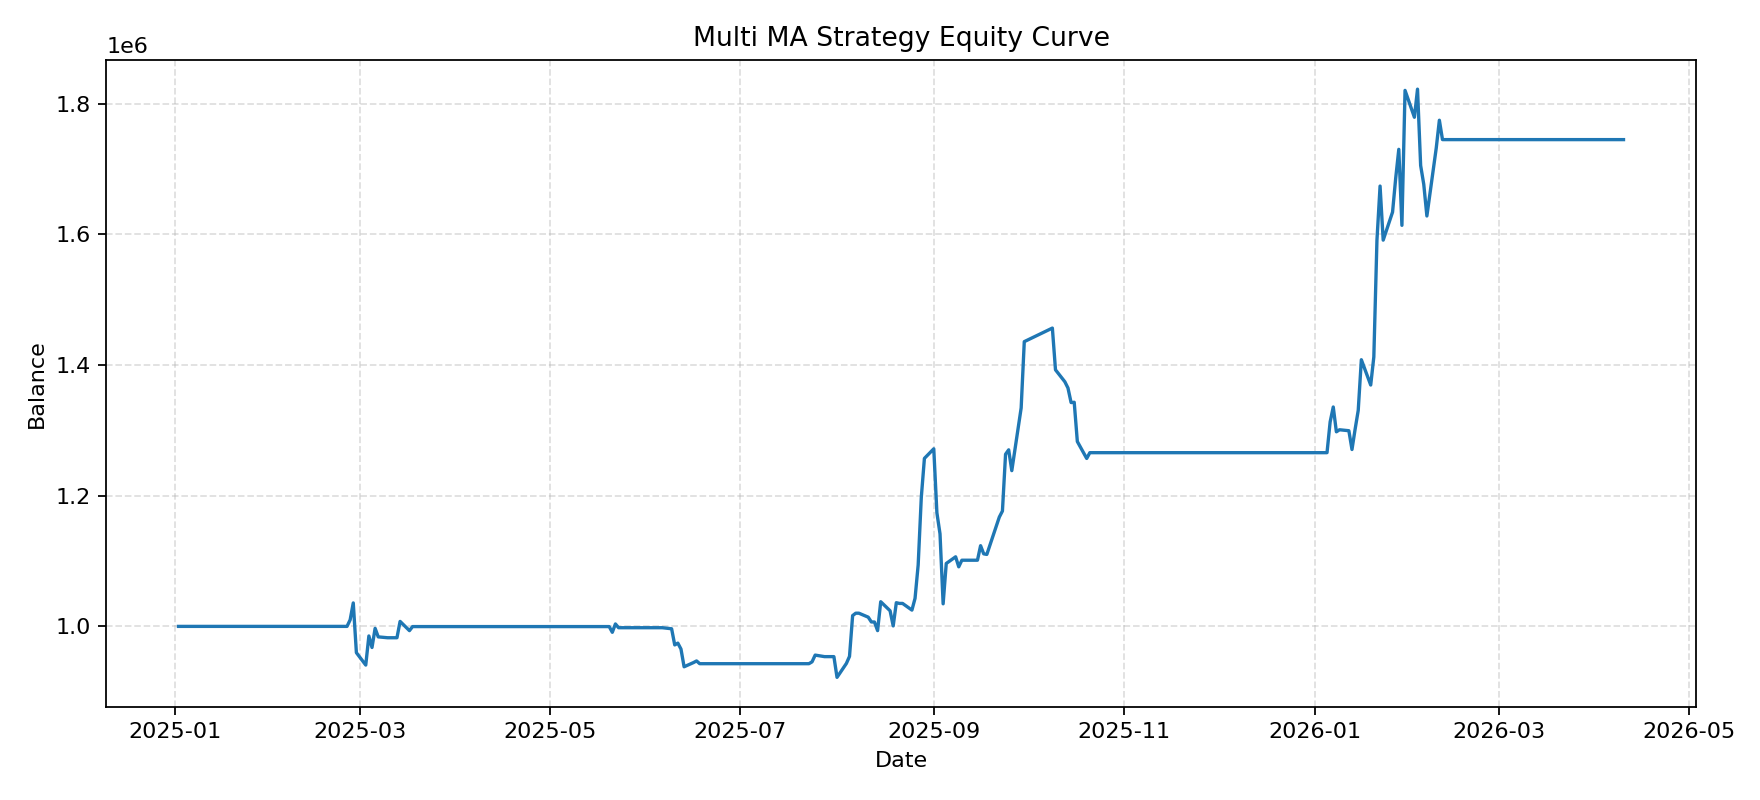
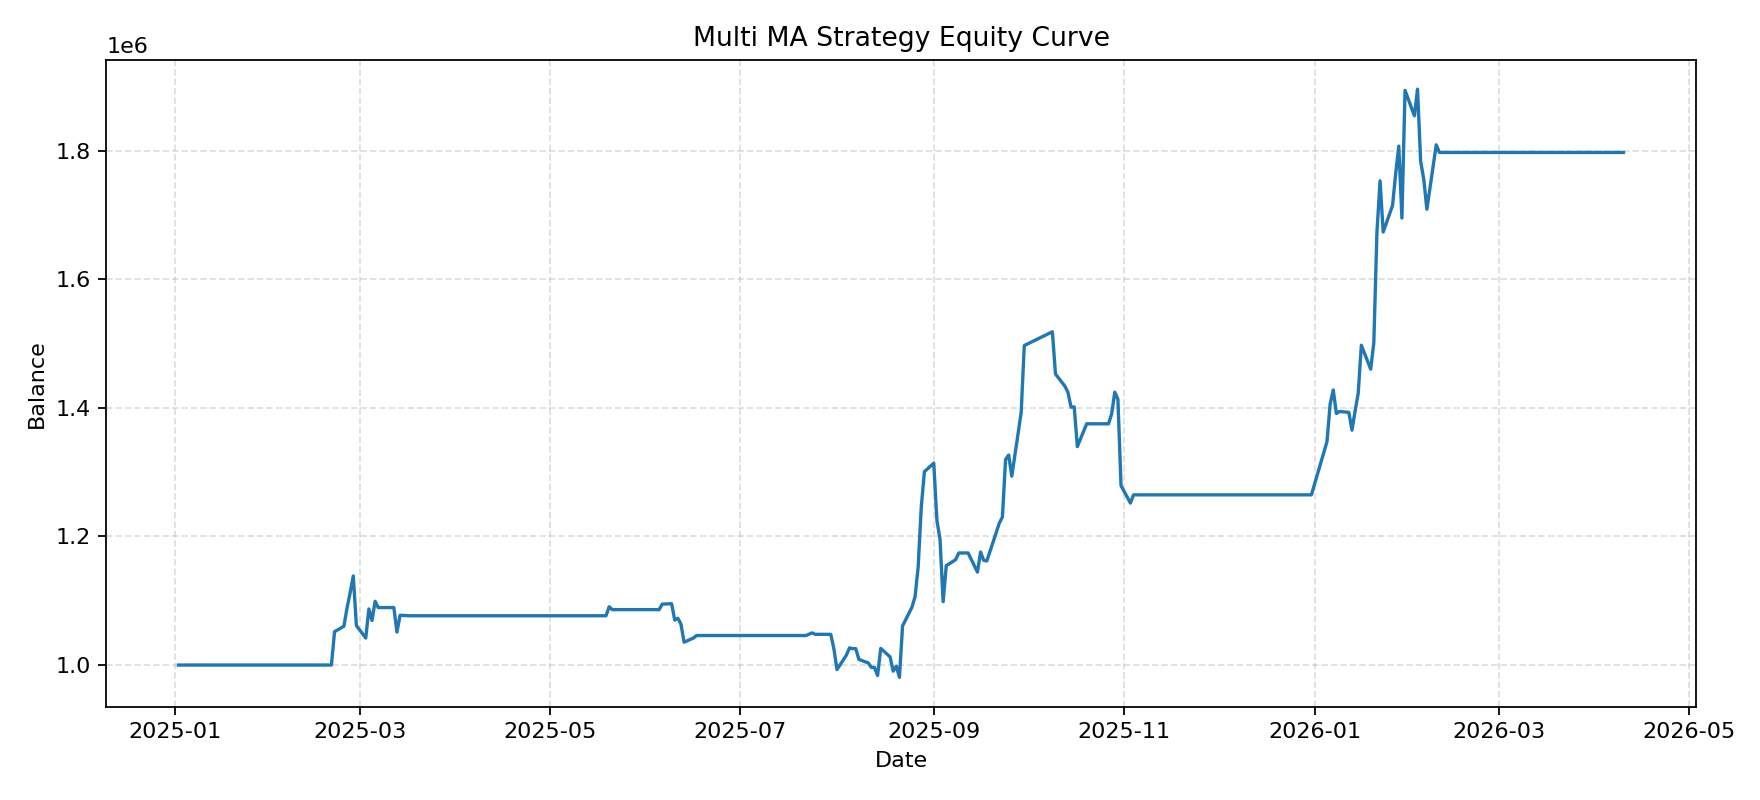
多均线策略: 简化 T+1 执行逻辑 + 改用 pro_bar 后复权数据
strategy.py:
- 移除手动 pending_order/slippage 机制，改用引擎 bar-to-bar 延迟实现 T+1
- 移除 slippage 参数，回测引擎撮合时已内置逻辑
- 简化 on_bars 信号判断流程

fetch_data.py:
- 从 pro.daily() 改为 ts.pro_bar(adj="hfq")，确保正确获取后复权价格
- 添加数据预览输出

回测结果（688008 澜起科技, 2025-01~2026-04-10）:
- 总收益率 +79.74%，Sharpe 1.52，最大回撤 -17.55%

diff --git a/vnpy/strategies/multi_ma_strategy/strategy.py b/vnpy/strategies/multi_ma_strategy/strategy.py
@@ -13,8 +13,8 @@
 - 均线纠缠时不操作（MA10/MA20 差异 < 0.3% 或 MA20/MA30 差异 < 0.2%）
 
 交易执行：
-- T 日收盘后判断信号
-- T+1 日开盘价执行，叠加滑点
+- T 日收盘后判断信号，设置目标仓位并发出订单
+- 回测引擎在下一根 bar 撮合订单（即 T+1 日开盘价执行）
 """
 
 from vnpy.trader.object import BarData, TradeData
@@ -36,9 +36,8 @@ class MultiMaStrategy(AlphaStrategy):
     struggle_threshold_10_20: float = 0.003  # MA10/MA20 纠缠阈值
     struggle_threshold_20_30: float = 0.002  # MA20/MA30 纠缠阈值
     cash_ratio: float = 0.99              # 买入时资金使用比例
-    price_add: float = 0.05               # 下单价格偏移
+    price_add: float = 0.05               # 下单价格偏移（确保限价单在次日开盘价之上成交）
     use_next_day: bool = True             # T+1 交易模式
-    slippage: float = 0.001               # 滑点比例，默认 0.1%
     stop_loss_rate: float = 0.08          # 止损比例，默认 8%
     adx_period: int = 14                  # ADX 计算周期
     adx_threshold: float = 20.0           # ADX 趋势强度阈值
@@ -51,13 +50,12 @@ class MultiMaStrategy(AlphaStrategy):
         self.ma_history: dict[int, list[float]] = {p: [] for p in self.ma_periods}
         self.bullish_history: list[bool] = []
         self.bearish_history: list[bool] = []
-        self.pending_order: dict | None = None  # T 日信号，T+1 日执行
         self.buy_price: float = 0.0             # 持仓入场价（止损基准）
         self.adx_value: float = 0.0             # 当前 ADX 值
 
         self.write_log("多均线择时策略初始化")
         self.write_log(f"均线周期: {self.ma_periods}")
-        self.write_log(f"T+1 模式: {self.use_next_day}, 滑点: {self.slippage*100:.2f}%")
+        self.write_log(f"T+1 模式: {self.use_next_day}")
         self.write_log(f"止损: {self.stop_loss_rate*100:.2f}%, ADX({self.adx_period}) 阈值: {self.adx_threshold}")
 
     def on_trade(self, trade: TradeData) -> None:
@@ -80,32 +78,22 @@ class MultiMaStrategy(AlphaStrategy):
         if not bar:
             return
 
-        # 1. 执行前一日缓存的订单（T+1 模式）
-        if self.use_next_day and self.pending_order:
-            self._execute_pending_order(bar)
-            self.execute_trading(bars, price_add=self.price_add)
-            # 订单已发送，等待次日撮合后再判断新信号
-            return
-
-        # 2. 更新均线（用今天的收盘价计算）
-        self._update_ma_values(vt_symbol)
-
-        # 3. 计算 ADX（用于趋势过滤）
-        self._update_adx(vt_symbol)
-
-        # 4. 判断今天信号（写入 pending_order，次日执行）
+        # 非 T+1 模式：走旧逻辑
         if not self.use_next_day:
+            self._update_ma_values(vt_symbol)
+            self._update_adx(vt_symbol)
             self._execute_signals(bars)
             return
 
-        # T+1 模式：缓存信号到次日
-        if len(self.bullish_history) < 2:
-            self.bullish_history.append(self._is_bullish())
-            self.bearish_history.append(self._is_bearish())
-            return
-        if any(len(self.ma_history[p]) < 3 for p in [5, 10, 20]):
-            return
+        # T+1 模式：信号当天设置目标，引擎在下一根 bar 撮合（即 T+1 开盘执行）
 
+        # 1. 更新均线（用今天的收盘价计算）
+        self._update_ma_values(vt_symbol)
+
+        # 2. 计算 ADX（用于趋势过滤）
+        self._update_adx(vt_symbol)
+
+        # 3. 记录状态到 history（交叉检测需要）
         is_bull = self._is_bullish()
         is_bear = self._is_bearish()
         self.bullish_history.append(is_bull)
@@ -113,35 +101,47 @@ class MultiMaStrategy(AlphaStrategy):
 
         current_pos: float = self.get_pos(vt_symbol)
 
-        # ========== 止损检查（最高优先级，覆盖现有 pending_order） ==========
+        # 4. ========== 止损检查（最高优先级） ==========
         if self._check_stop_loss(current_pos, bar):
+            self.set_target(vt_symbol, 0)
+            self.write_log(f"止损 清仓 @ {self.strategy_engine.datetime.strftime('%Y-%m-%d')}")
+            self.execute_trading(bars, price_add=self.price_add)
             return
 
-        # 已有待执行订单，不覆盖
-        if self.pending_order:
+        # 5. 已有持仓，等待成交完成后再发新信号
+        #    （避免重复下单，回测引擎 bar-to-bar 延迟天然实现 T+1）
+        if current_pos > 0:
+            # 持仓状态：只检测卖出信号
+            if self._has_sufficient_history() and self._is_cross_down():
+                self.set_target(vt_symbol, 0)
+                self.write_log(f"死叉 清仓 @ {self.strategy_engine.datetime.strftime('%Y-%m-%d')}")
+                self.execute_trading(bars, price_add=self.price_add)
+            elif is_bear:
+                self.set_target(vt_symbol, 0)
+                self.write_log(f"空头排列 清仓 @ {self.strategy_engine.datetime.strftime('%Y-%m-%d')}")
+                self.execute_trading(bars, price_add=self.price_add)
             return
 
-        # ---------- 多头后死叉 → 卖出 ----------
-        if current_pos > 0 and self._is_cross_down():
-            self._set_pending_sell_order(bar, reason="死叉")
+        # 6. 空仓状态：检测买入信号
+        if not self._has_sufficient_history():
+            return
 
-        # ---------- 空头后金叉 → 买入（ADX 过滤） ----------
-        elif current_pos == 0 and self._is_cross_up():
+        # 交叉型信号（需 history >= 2）
+        if self._is_cross_up():
             if not self._adx_allow_buy():
                 self.write_log(f"[过滤] 金叉信号被 ADX 过滤 (ADX={self.adx_value:.1f})")
                 return
-            self._set_pending_buy_order(bar, reason="金叉")
+            self._set_buy_target(bar, reason="金叉")
+            self.execute_trading(bars, price_add=self.price_add)
+            return
 
-        # ---------- 多头排列 → 买入（ADX 过滤） ----------
-        elif current_pos == 0 and is_bull:
+        # 排列型信号
+        if is_bull:
             if not self._adx_allow_buy():
                 self.write_log(f"[过滤] 多头排列信号被 ADX 过滤 (ADX={self.adx_value:.1f})")
                 return
-            self._set_pending_buy_order(bar, reason="多头排列")
-
-        # ---------- 空头排列 → 卖出 ----------
-        elif current_pos > 0 and is_bear:
-            self._set_pending_sell_order(bar, reason="空头排列")
+            self._set_buy_target(bar, reason="多头排列")
+            self.execute_trading(bars, price_add=self.price_add)
 
     # ==================== 信号判断 ====================
 
@@ -185,6 +185,10 @@ class MultiMaStrategy(AlphaStrategy):
         return (diff_10_20 < self.struggle_threshold_10_20 or
                 diff_20_30 < self.struggle_threshold_20_30)
 
+    def _has_sufficient_history(self) -> bool:
+        """交叉检测需要 bullish_history >= 2"""
+        return len(self.bullish_history) >= 2
+
     def _update_adx(self, vt_symbol: str) -> None:
         """计算当前 ADX 值"""
         n = self.adx_period
@@ -201,14 +205,10 @@ class MultiMaStrategy(AlphaStrategy):
         self.adx_value = float(adx_array[-1])
 
     def _check_stop_loss(self, current_pos: float, bar: BarData) -> bool:
-        """止损检查。触发时设置 pending sell 并返回 True。
-
-        优先级最高：即使已有 pending buy 也会被覆盖。
-        """
+        """止损检查。触发时返回 True。"""
         if current_pos > 0 and self.buy_price > 0:
             stop_price = self.buy_price * (1 - self.stop_loss_rate)
             if bar.close_price <= stop_price:
-                self._set_pending_sell_order(bar, reason="止损")
                 return True
         return False
 
@@ -231,56 +231,19 @@ class MultiMaStrategy(AlphaStrategy):
     def _get_ma(self, period: int, offset: int = -1) -> float:
         return self.ma_history[period][offset]
 
-    # ==================== T+1 执行 ====================
+    # ==================== 执行 ====================
 
-    def _set_pending_buy_order(self, bar: BarData, reason: str) -> None:
-        """缓存买入信号，次日开盘执行"""
-        self.pending_order = {
-            "vt_symbol": bar.vt_symbol,
-            "action": "buy",
-            "reason": reason,
-            "signal_date": self.strategy_engine.datetime.strftime("%Y-%m-%d"),
-        }
-        self.write_log(f"[信号] {reason} 买入 @ {self.pending_order['signal_date']}")
+    def _set_buy_target(self, bar: BarData, reason: str) -> None:
+        """设置买入目标仓位"""
+        cash = self.get_cash_available()
+        buy_value = cash * self.cash_ratio
+        order_price = bar.close_price * (1 + self.price_add)
+        volume = round_to(buy_value / order_price, 100)
+        if volume >= 100:
+            self.set_target(bar.vt_symbol, volume)
+            self.write_log(f"[信号] {reason} 买入 {volume}股 @ {self.strategy_engine.datetime.strftime('%Y-%m-%d')}")
 
-    def _set_pending_sell_order(self, bar: BarData, reason: str) -> None:
-        """缓存卖出信号，次日开盘执行"""
-        self.pending_order = {
-            "vt_symbol": bar.vt_symbol,
-            "action": "sell",
-            "reason": reason,
-            "signal_date": self.strategy_engine.datetime.strftime("%Y-%m-%d"),
-        }
-        self.write_log(f"[信号] {reason} 清仓 @ {self.pending_order['signal_date']}")
-
-    def _execute_pending_order(self, bar: BarData) -> None:
-        """执行待处理订单（T+1 日开盘执行 T 日信号）"""
-        order = self.pending_order
-        open_price = bar.open_price
-
-        if order["action"] == "buy":
-            exec_price = open_price * (1 + self.slippage)
-            cash = self.get_cash_available()
-            buy_value = cash * self.cash_ratio
-            volume = round_to(buy_value / exec_price, 100)
-            if volume >= 100:
-                self.set_target(bar.vt_symbol, volume)
-                self.write_log(
-                    f"[成交] {order['reason']} 买入 {volume}股 "
-                    f"@ 开盘{open_price:.2f} + 滑点{self.slippage*100:.2f}% → {exec_price:.2f}"
-                )
-            else:
-                self.write_log(f"[跳过] 买入量 {volume}股 < 100，不执行")
-        else:
-            self.set_target(bar.vt_symbol, 0)
-            self.write_log(
-                f"[成交] {order['reason']} 清仓 "
-                f"@ 开盘{open_price:.2f} - 滑点{self.slippage*100:.2f}%"
-            )
-
-        self.pending_order = None
-
-    # ==================== 非 T+1 模式（旧逻辑） ====================
+    # ==================== 非 T+1 模式（旧逻辑，保留兼容） ====================
 
     def _execute_signals(self, bars: dict[str, BarData]) -> None:
         """非 T+1 模式：当天信号当天执行"""
@@ -330,12 +293,3 @@ class MultiMaStrategy(AlphaStrategy):
             self.write_log("空头排列 清仓")
 
         self.execute_trading(bars, price_add=self.price_add)
-
-    def _set_buy_target(self, bar: BarData, reason: str) -> None:
-        cash = self.get_cash_available()
-        buy_value = cash * self.cash_ratio
-        order_price = bar.close_price * (1 + self.price_add)
-        volume = round_to(buy_value / order_price, 100)
-        if volume >= 100:
-            self.set_target(bar.vt_symbol, volume)
-            self.write_log(f"{reason} 买入 {volume}股 @ {order_price:.2f}")

diff --git a/examples/multi_ma_backtest/fetch_data.py b/examples/multi_ma_backtest/fetch_data.py
@@ -21,69 +21,71 @@ from config import DAILY_BAR_CACHE, END_DATE, LAB_PATH, START_DATE, TS_CODE, TUS
 
 
 def fetch_daily() -> None:
-    """获取日线数据并保存为 AlphaLab 兼容格式。"""
+    """获取日线数据（后复权）并保存为 AlphaLab 兼容格式。"""
     ts.set_token(TUSHARE_TOKEN)
-    pro = ts.pro_api()
 
     start = START_DATE.replace("-", "")
     end = END_DATE.replace("-", "")
 
-    # AlphaLab 需要的路径: lab_data/multi_ma/daily/
+    # AlphaLab 需要的路径
     daily_dir = LAB_PATH / "daily"
     daily_dir.mkdir(parents=True, exist_ok=True)
 
-    print(f"正在获取 {TS_CODE} 日线数据 ({START_DATE} ~ {END_DATE}) ...")
+    print(f"正在获取 {TS_CODE} 日线数据（后复权, {START_DATE} ~ {END_DATE}) ...")
 
-    df = pro.daily(
+    # 直接用 pro_bar 获取后复权日线
+    df = ts.pro_bar(
         ts_code=TS_CODE,
         start_date=start,
         end_date=end,
-        adj="hfq",  # 后复权
+        adj="hfq",
     )
 
     if df is None or len(df) == 0:
-        print("错误：未获取到数据")
+        print("错误：未获取到日线数据")
         sys.exit(1)
 
-    print(f"获取到 {len(df)} 条日线数据")
+    print(f"获取到 {len(df)} 条后复权日线数据")
 
-    data = pl.DataFrame(df)
-    data = data.sort("trade_date")
+    data = pl.DataFrame(df).sort("trade_date")
 
     # 转换日期格式
     data = data.with_columns(
         pl.col("trade_date").cast(pl.Utf8).str.to_datetime("%Y%m%d").alias("datetime")
     )
 
-    # 标准化列名（AlphaLab 需要的列）
+    # 标准化列名
     data = data.rename({"vol": "volume"})
 
-    # 确保 AlphaLab 需要的列都存在
+    # 确保必要列存在
     required_cols = ["datetime", "open", "high", "low", "close", "volume"]
     for col in required_cols:
         if col not in data.columns:
             print(f"错误：缺少必要列 {col}")
             sys.exit(1)
 
-    # 添加缺少的列（turnover, open_interest）
+    # 添加缺少的列
     if "turnover" not in data.columns:
         data = data.with_columns((pl.col("close") * pl.col("volume")).alias("turnover"))
     if "open_interest" not in data.columns:
         data = data.with_columns(pl.lit(0.0).alias("open_interest"))
 
-    # 保存到 daily 目录（AlphaLab 格式）
+    # 保存到 daily 目录
     vt_symbol = TS_CODE.replace(".SH", ".SSE").replace(".SZ", ".SZSE")
     output_path = daily_dir / f"{vt_symbol}.parquet"
 
     select_cols = ["datetime", "open", "high", "low", "close", "volume", "turnover", "open_interest"]
     data.select(select_cols).write_parquet(output_path)
-
     print(f"日线数据已保存: {output_path}")
 
-    # 同时保存一份完整的到缓存路径，供其他用途
+    # 同时保存到缓存路径
     LAB_PATH.mkdir(parents=True, exist_ok=True)
     data.write_parquet(DAILY_BAR_CACHE)
     print(f"完整数据已保存: {DAILY_BAR_CACHE}")
+
+    # 打印前几条价格供验证
+    print(f"\n前 5 条数据预览:")
+    print(data.select(["datetime", "open", "high", "low", "close", "volume"]).head(5))
 
 
 if __name__ == "__main__":
